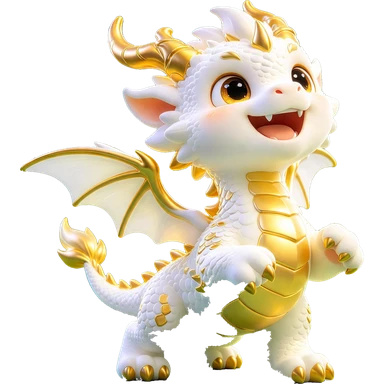
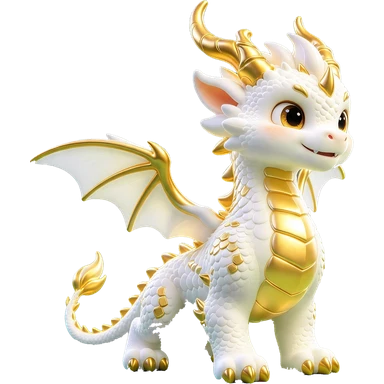
R 級龍換新一批四腳圖（光龍改做四腳着地）
Claude-Session: https://claude.ai/code/session_01E2utfFQBUZUAHLnSXfgdjb

diff --git a/public/sw.js b/public/sw.js
@@ -1,5 +1,5 @@
 // 大富翁 service worker: keeps the app shell and art so the board opens without a network.
-const CACHE = "dafuweng-v143";
+const CACHE = "dafuweng-v144";
 const SHELL = [
   "/",
   "/manifest.webmanifest",
